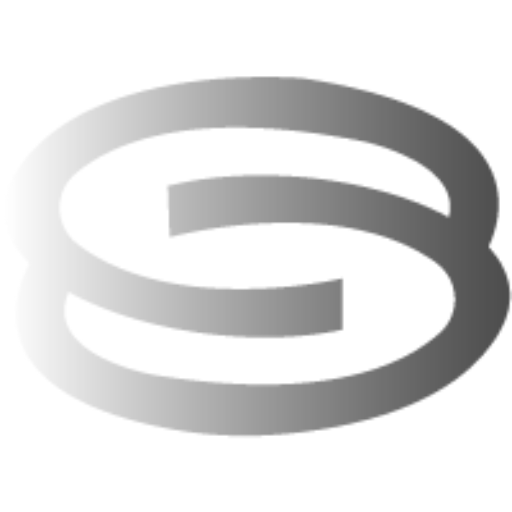
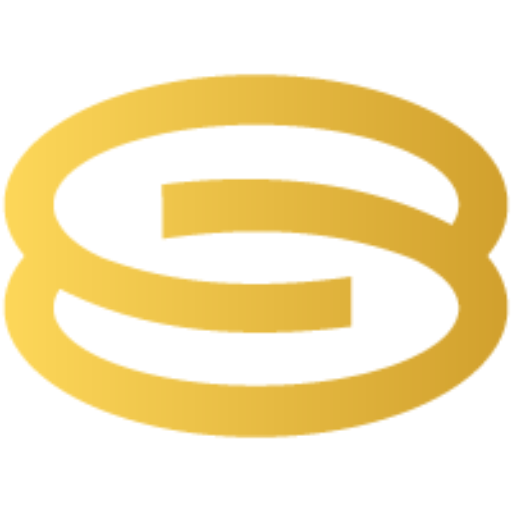
all change

diff --git a/about.html b/about.html
@@ -43,9 +43,9 @@
                                 <!-- logo begin -->
                                 <div id="logo">
                                     <a href="index.html">
-                                        <img class="logo-main" src="images/logo-w.png" alt="">
-                                        <img class="logo-scroll" src="images/logob.png" alt="">
-                                        <img class="logo-mobile" src="images/logo-w.png" alt="">
+                                        <img class="logo-main" src="images/Spuer-Eco.png" alt="" width="90">
+                                        <img class="logo-scroll" src="images/Spuer-Eco.png" alt="" width="80">
+                                        <img class="logo-mobile" src="images/Spuer-Eco.png" alt="" width="90">
                                     </a>
                                 </div>
                                 <!-- logo close -->
@@ -759,7 +759,7 @@
                             you're not only protecting the environment but also saving on costs. Together, we can drive
                             towards a future powered by clean energy, where everyone benefits. Join us and be a part of
                             this positive change!</p>
-                        
+
                         <div class="social-icons mb-sm-30">
                             <a href="#"><i class="fa-brands fa-facebook-f"></i></a>
                             <a href="#"><i class="fa-brands fa-instagram"></i></a>
@@ -824,7 +824,7 @@
                     <div class="row">
                         <div class="col-md-12">
                             <div class="de-flex">
-                            <div class="de-flex-col">
+                                <div class="de-flex-col">
                                     Copyright 2024 - Super Eco Automotive Co. All rights reserved.
                                 </div>
                                 <ul class="menu-simple">
